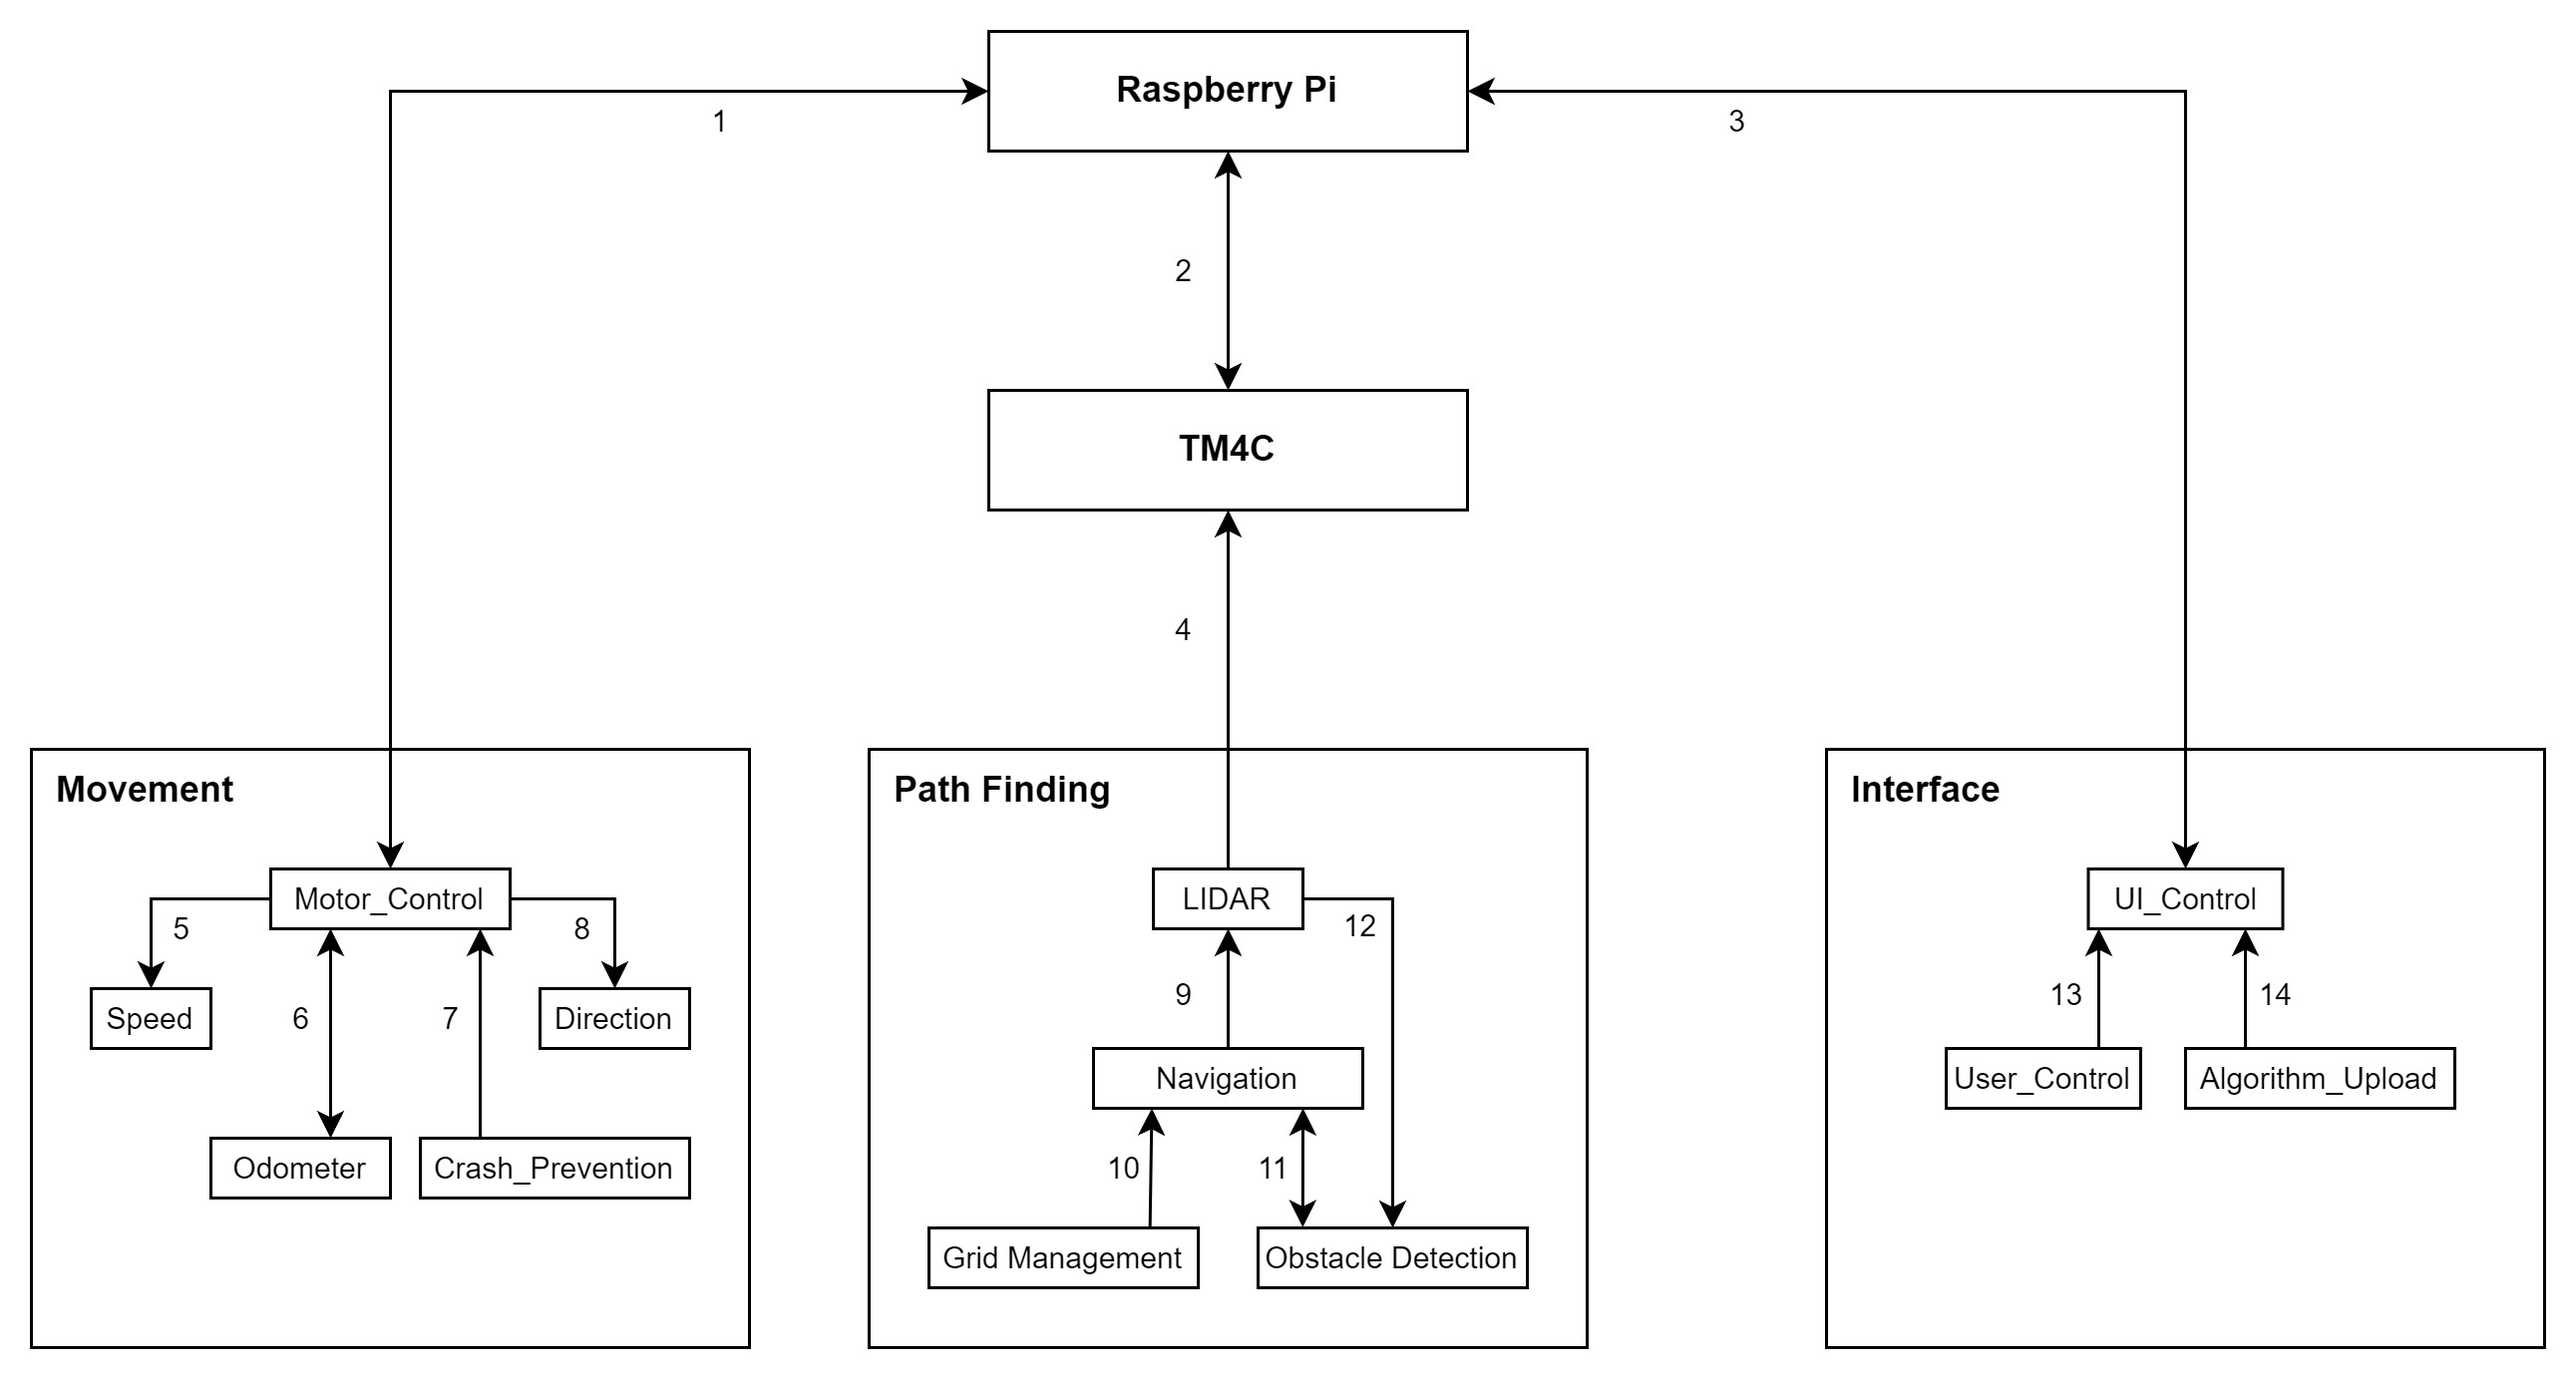
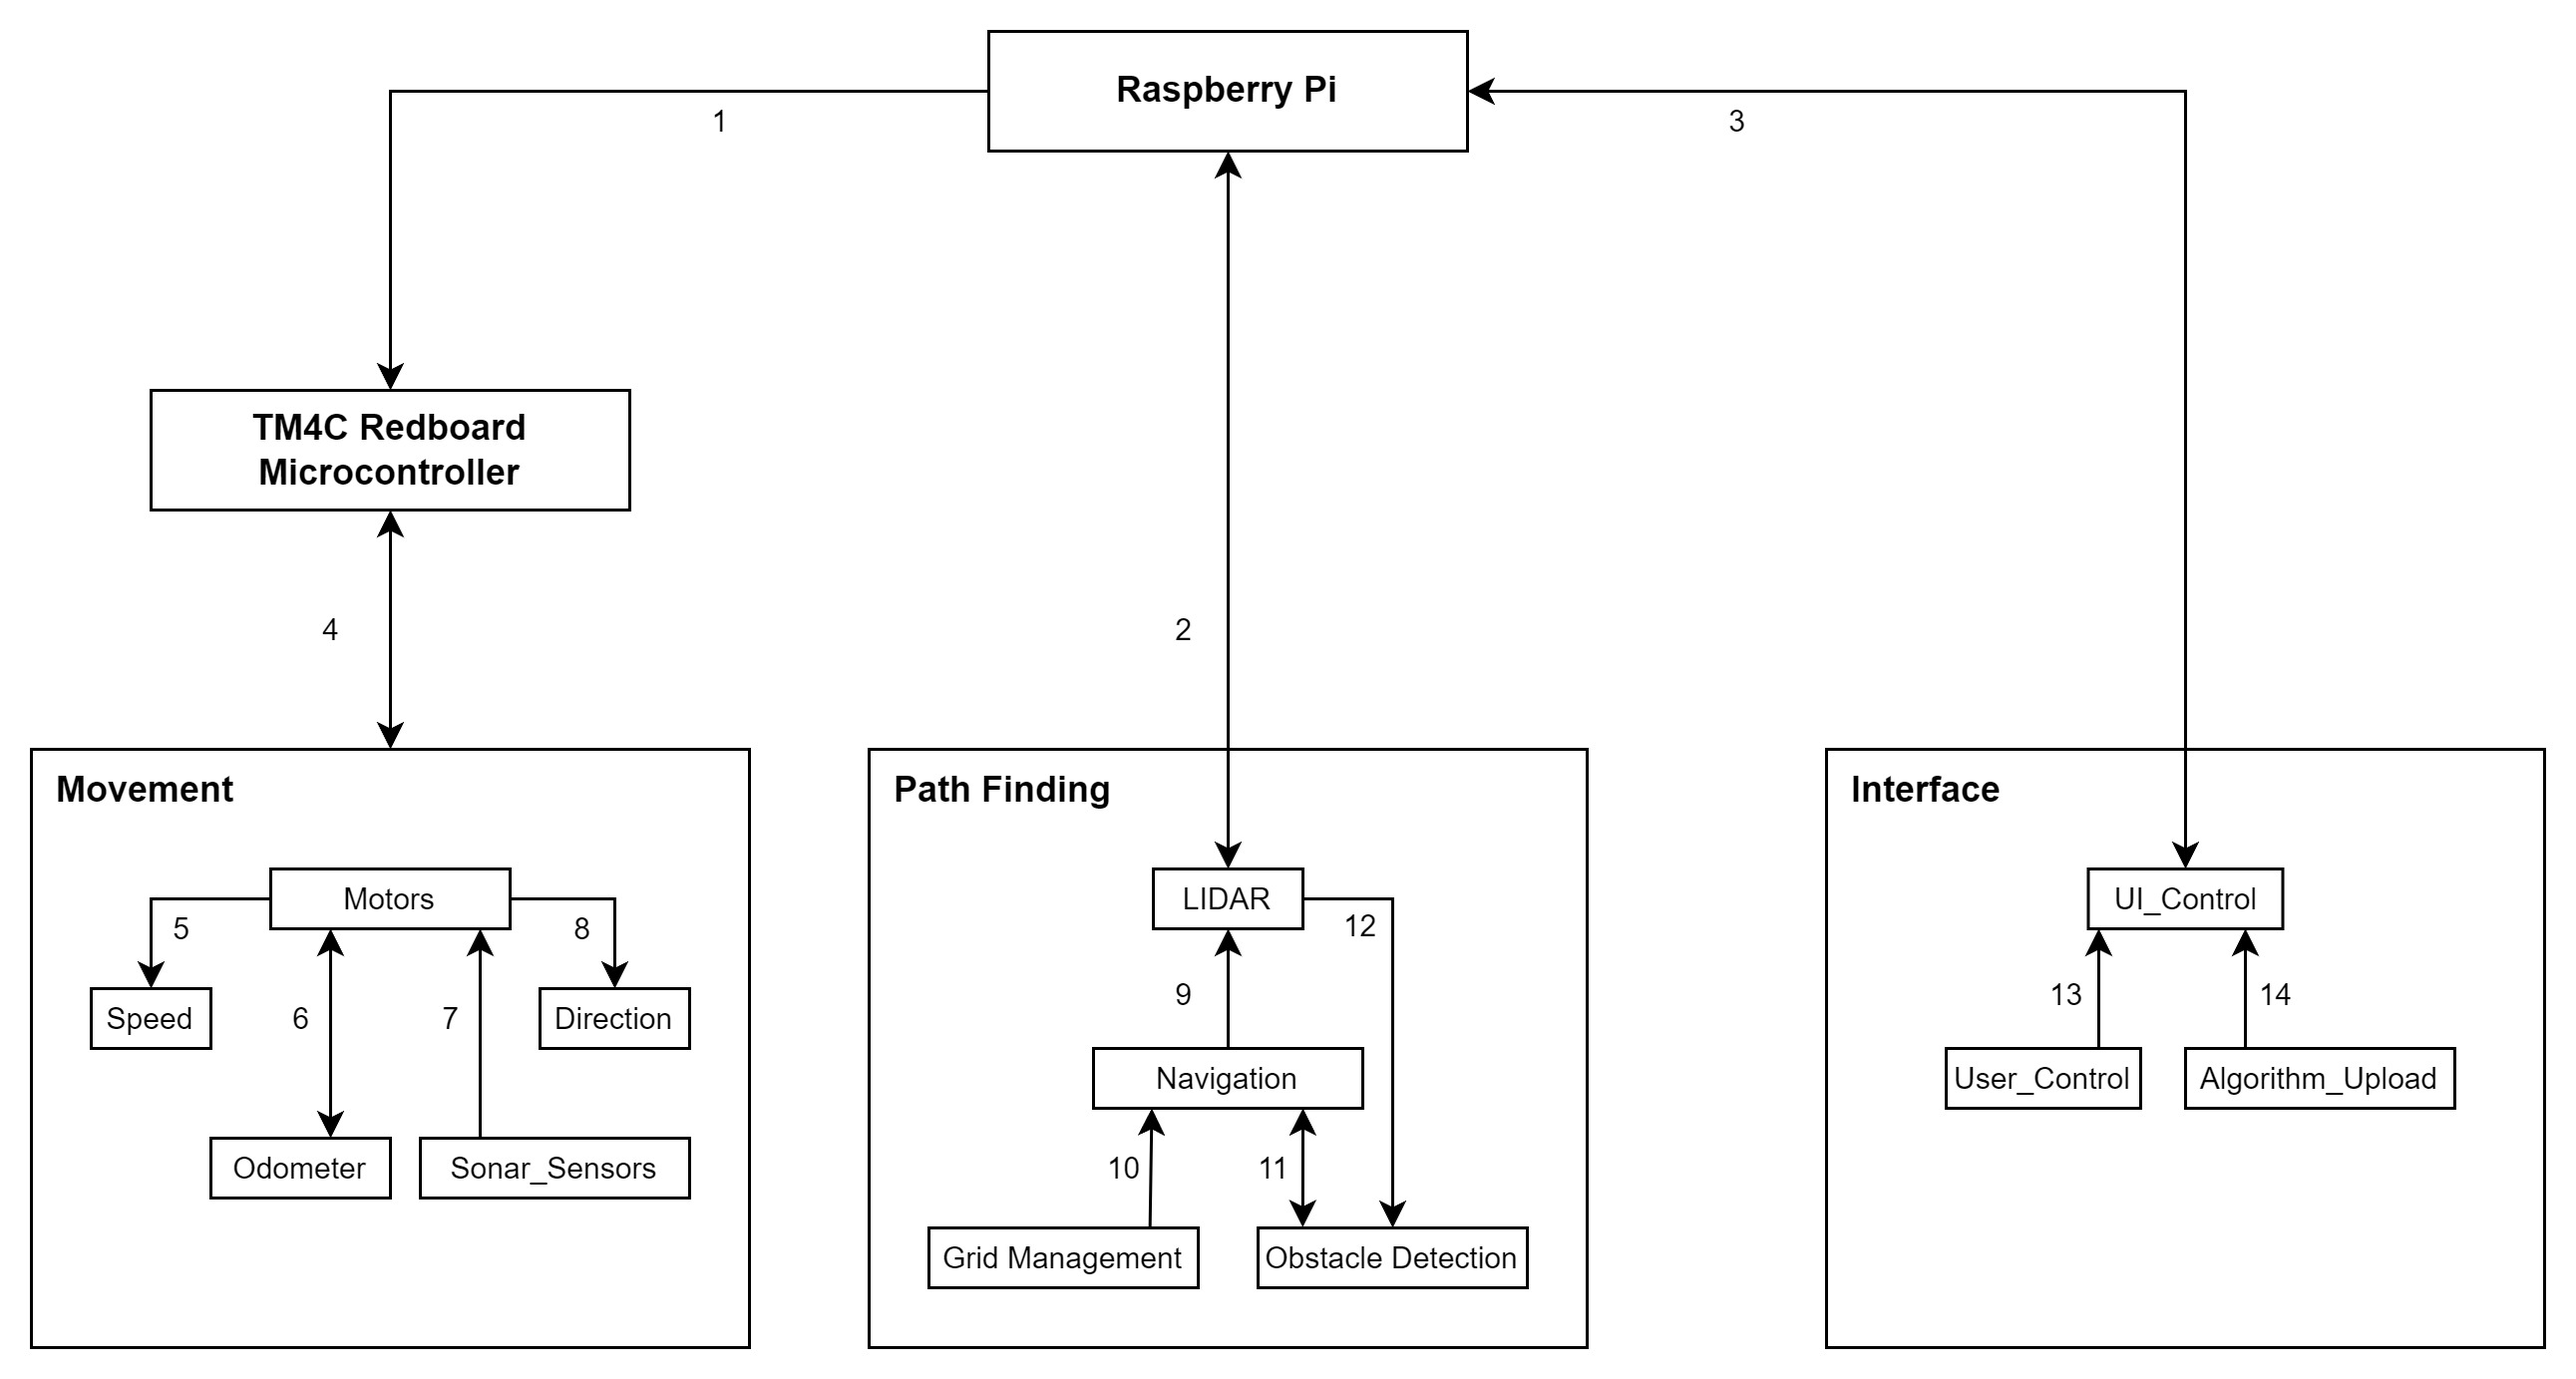
Fixed diagrams

diff --git a/documentation/ArchitecturalDesignSpecification/tex/1_movement_subsystems.tex b/documentation/ArchitecturalDesignSpecification/tex/1_movement_subsystems.tex
@@ -77,7 +77,7 @@ The motor control subsystem manages the power supplied to the motors to achieve 
 
 \begin{figure}[h!]
 	\centering
- 	\includegraphics[width=0.45\textwidth]{images/movement/motor_control.jpg}
+ 	\includegraphics[width=0.45\textwidth]{images/movement/motors.jpg}
  \caption{Movement Subsystem - Motor Control} % Be sure to change the caption
 \end{figure}
 
@@ -144,7 +144,7 @@ The crash detection subsystem is responsible for identifying any potential colli
 
 \begin{figure}[h!]
 	\centering
- 	\includegraphics[width=0.45\textwidth]{images/movement/crash_prevention.jpg}
+ 	\includegraphics[width=0.45\textwidth]{images/movement/sonar_sensors.jpg}
  \caption{Movement Subsystem - Crash Detection} % Be sure to change the caption
 \end{figure}
 
